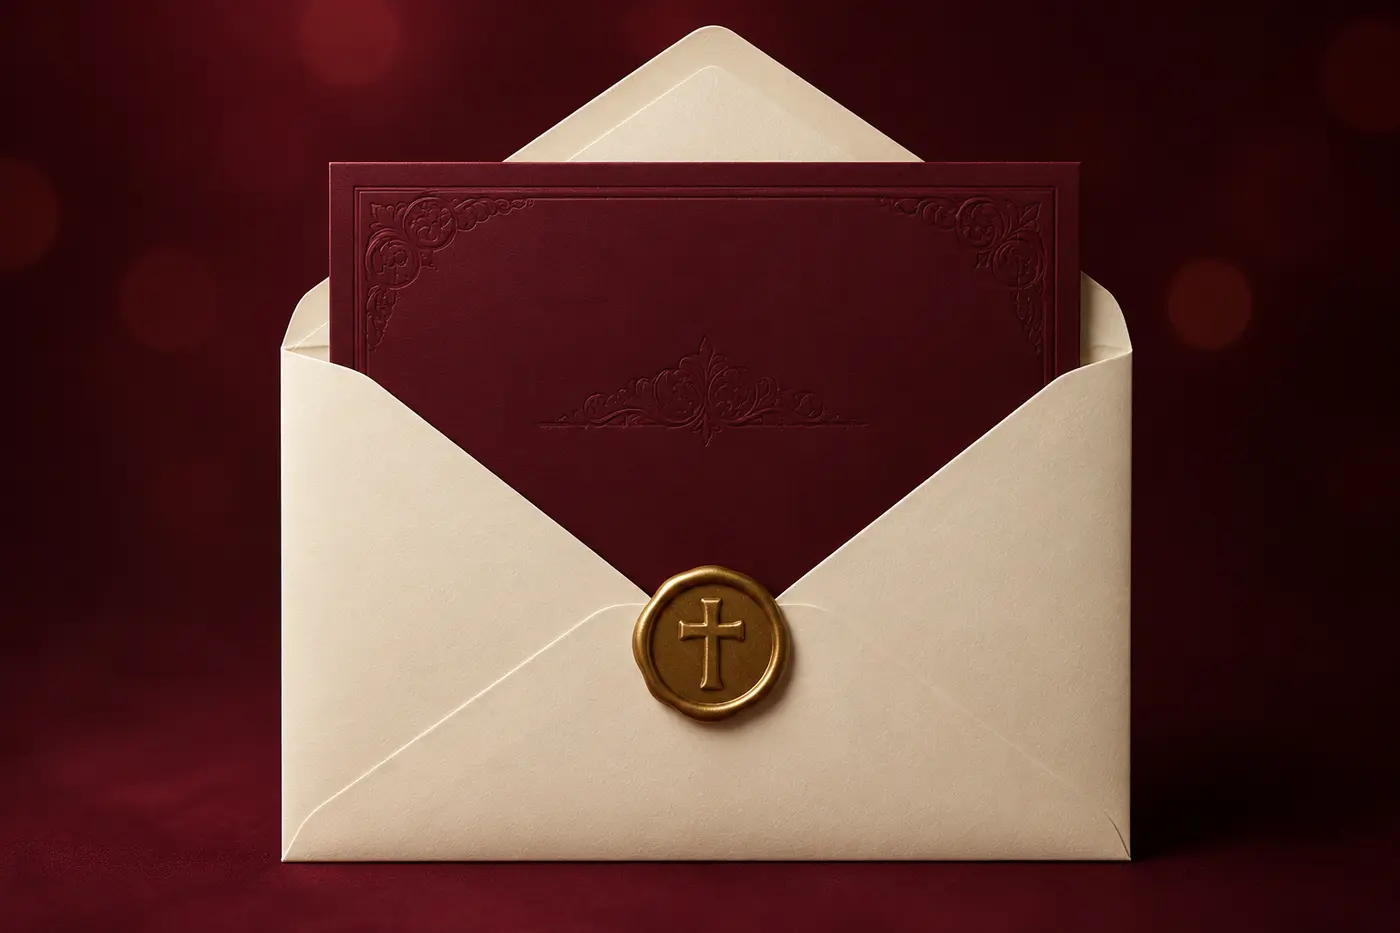
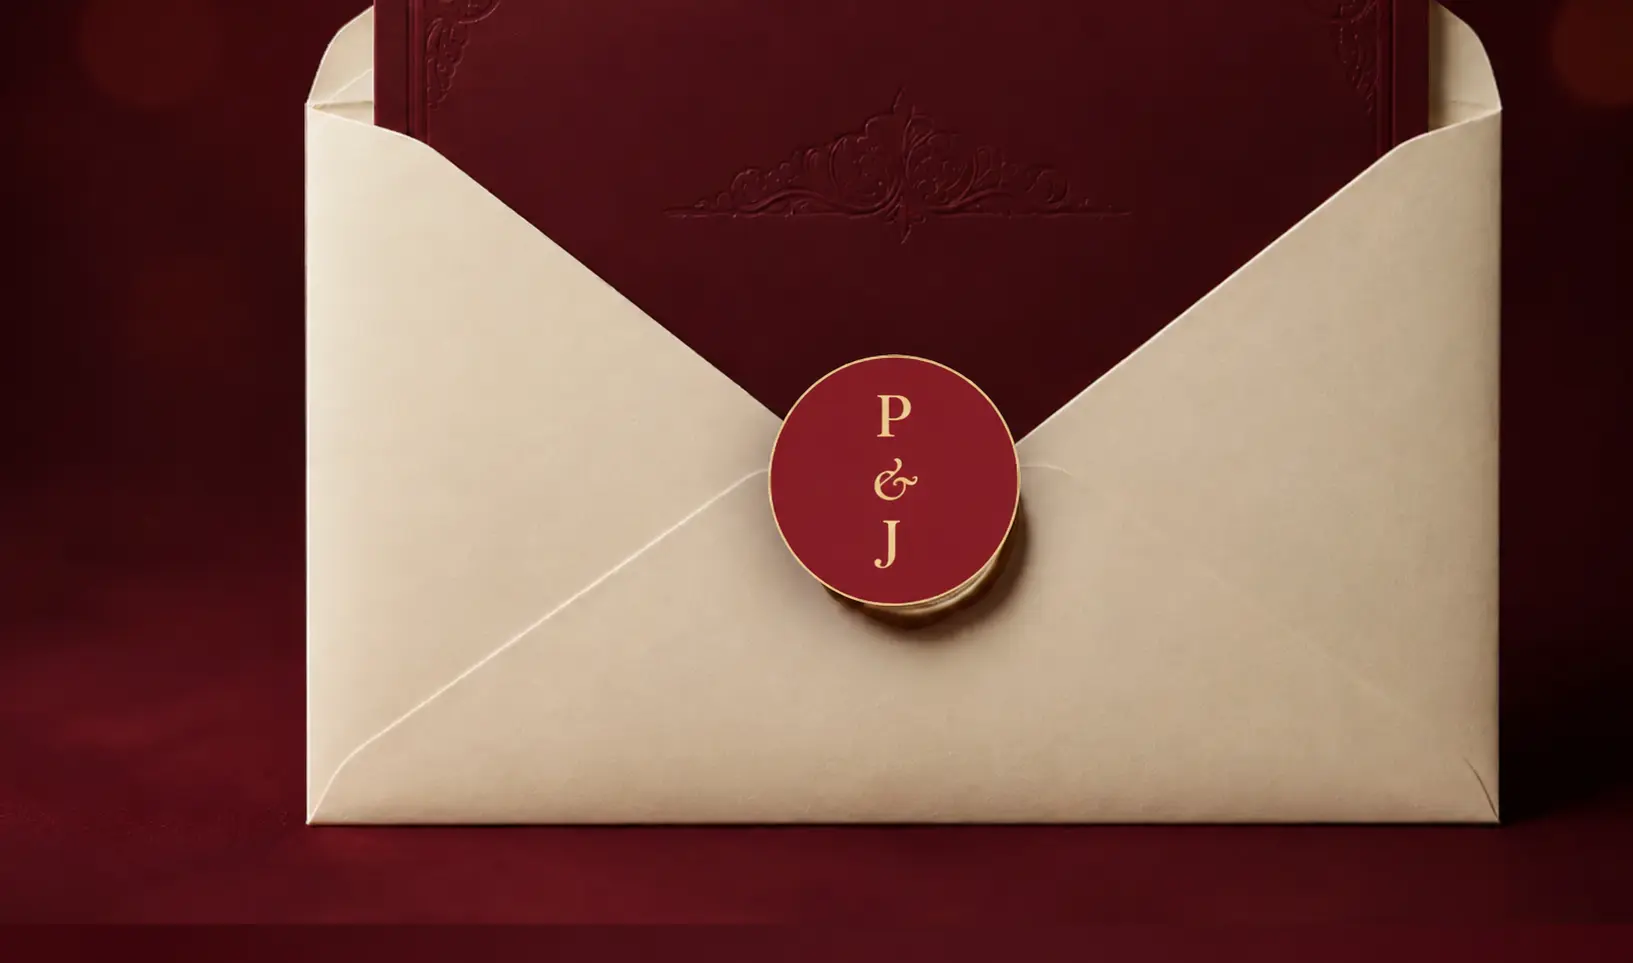
Update monogram and names to Paul and Joanna

diff --git a/index.html b/index.html
@@ -6,9 +6,9 @@
     <meta name="theme-color" content="#4b0810" />
     <meta
       name="description"
-      content="Demo Christian wedding invitation for Daniel and Anna"
+      content="Demo Christian wedding invitation for Paul and Joanna"
     />
-    <title>Daniel & Anna | Wedding Invitation</title>
+    <title>Paul & Joanna | Wedding Invitation</title>
     <link rel="preconnect" href="https://fonts.googleapis.com" />
     <link rel="preconnect" href="https://fonts.gstatic.com" crossorigin />
     <link
@@ -25,7 +25,7 @@
         <img
           src="assets/invitation-envelope.webp"
           alt="Ivory Christian wedding invitation envelope"
-        /><span class="seal">D <i>&</i> A</span>
+        /><span class="seal">P <i>&</i> J</span>
       </button>
       <h1>You’re Invited</h1>
       <p>Tap the envelope to open our invitation</p>
@@ -39,10 +39,10 @@
       <section class="save-date red-section full-screen">
         <div class="petals" aria-hidden="true">✦　·　✦</div>
         <div class="save-card reveal">
-          <div class="round-logo">D <i>&</i> A</div>
+          <div class="round-logo">P <i>&</i> J</div>
           <p class="kicker">Save the Date</p>
           <p class="script-line">
-            For the wedding celebration of Daniel & Anna
+            For the wedding celebration of Paul & Joanna
           </p>
           <div class="reveal-card" id="revealCard">
             <canvas
@@ -84,7 +84,7 @@
         </div>
         <div class="family-intro reveal">
           <div>
-            <h1>Daniel Mathew</h1>
+            <h1>Paul</h1>
             <p>Son of [Groom’s Parents]</p>
             <p class="small">
               Beloved grandson of [Groom’s Grandparents]
@@ -92,7 +92,7 @@
           </div>
           <span class="weds">weds</span>
           <div>
-            <h1>Anna Maria</h1>
+            <h1>Joanna</h1>
             <p>Daughter of [Bride’s Parents]</p>
             <p class="small">
               Beloved granddaughter of [Bride’s Grandparents]
@@ -109,7 +109,7 @@
       <section class="events red-section" id="events">
         <div class="section-heading reveal">
           <h2>Events Schedule</h2>
-          <p>#DanielWedsAnna</p>
+          <p>#PaulWedsJoanna</p>
           <span>❀</span>
         </div>
         <div class="events-card">
@@ -201,12 +201,12 @@
         <div class="story-card reveal">
           <img
             src="assets/couple-art.webp"
-            alt="Watercolour portrait of Daniel and Anna"
+            alt="Watercolour portrait of Paul and Joanna"
           />
           <div>
-            <h3>Daniel and Anna</h3>
+            <h3>Paul and Joanna</h3>
             <p>
-              Daniel’s quiet kindness and Anna’s warm, grounded spirit found
+              Paul’s quiet kindness and Joanna’s warm, grounded spirit found
               each other through a friendship that soon felt like home. With
               prayer, the blessing of both families and the grace of God, their
               journey unfolded naturally—two lives drawn together by faith,
@@ -305,7 +305,7 @@
         <form class="rsvp-form reveal" id="rsvpForm">
           <span class="form-leaf form-leaf--one" aria-hidden="true">🌿</span
           ><span class="form-flower" aria-hidden="true">🌼</span>
-          <div class="round-logo">D <i>&</i> A</div>
+          <div class="round-logo">P <i>&</i> J</div>
           <h3>Share Your Response</h3>
           <p>Please RSVP by 10th December 2026</p>
           <label
@@ -414,10 +414,10 @@
 
       <footer>
         <p>With Love</p>
-        <h3>Daniel & Anna</h3>
+        <h3>Paul & Joanna</h3>
         <span>♥</span>
         <p>27th–28th December 2026</p>
-        <small>#DanielWedsAnna</small>
+        <small>#PaulWedsJoanna</small>
       </footer>
     </main>
     <dialog class="lightbox" id="lightbox">
